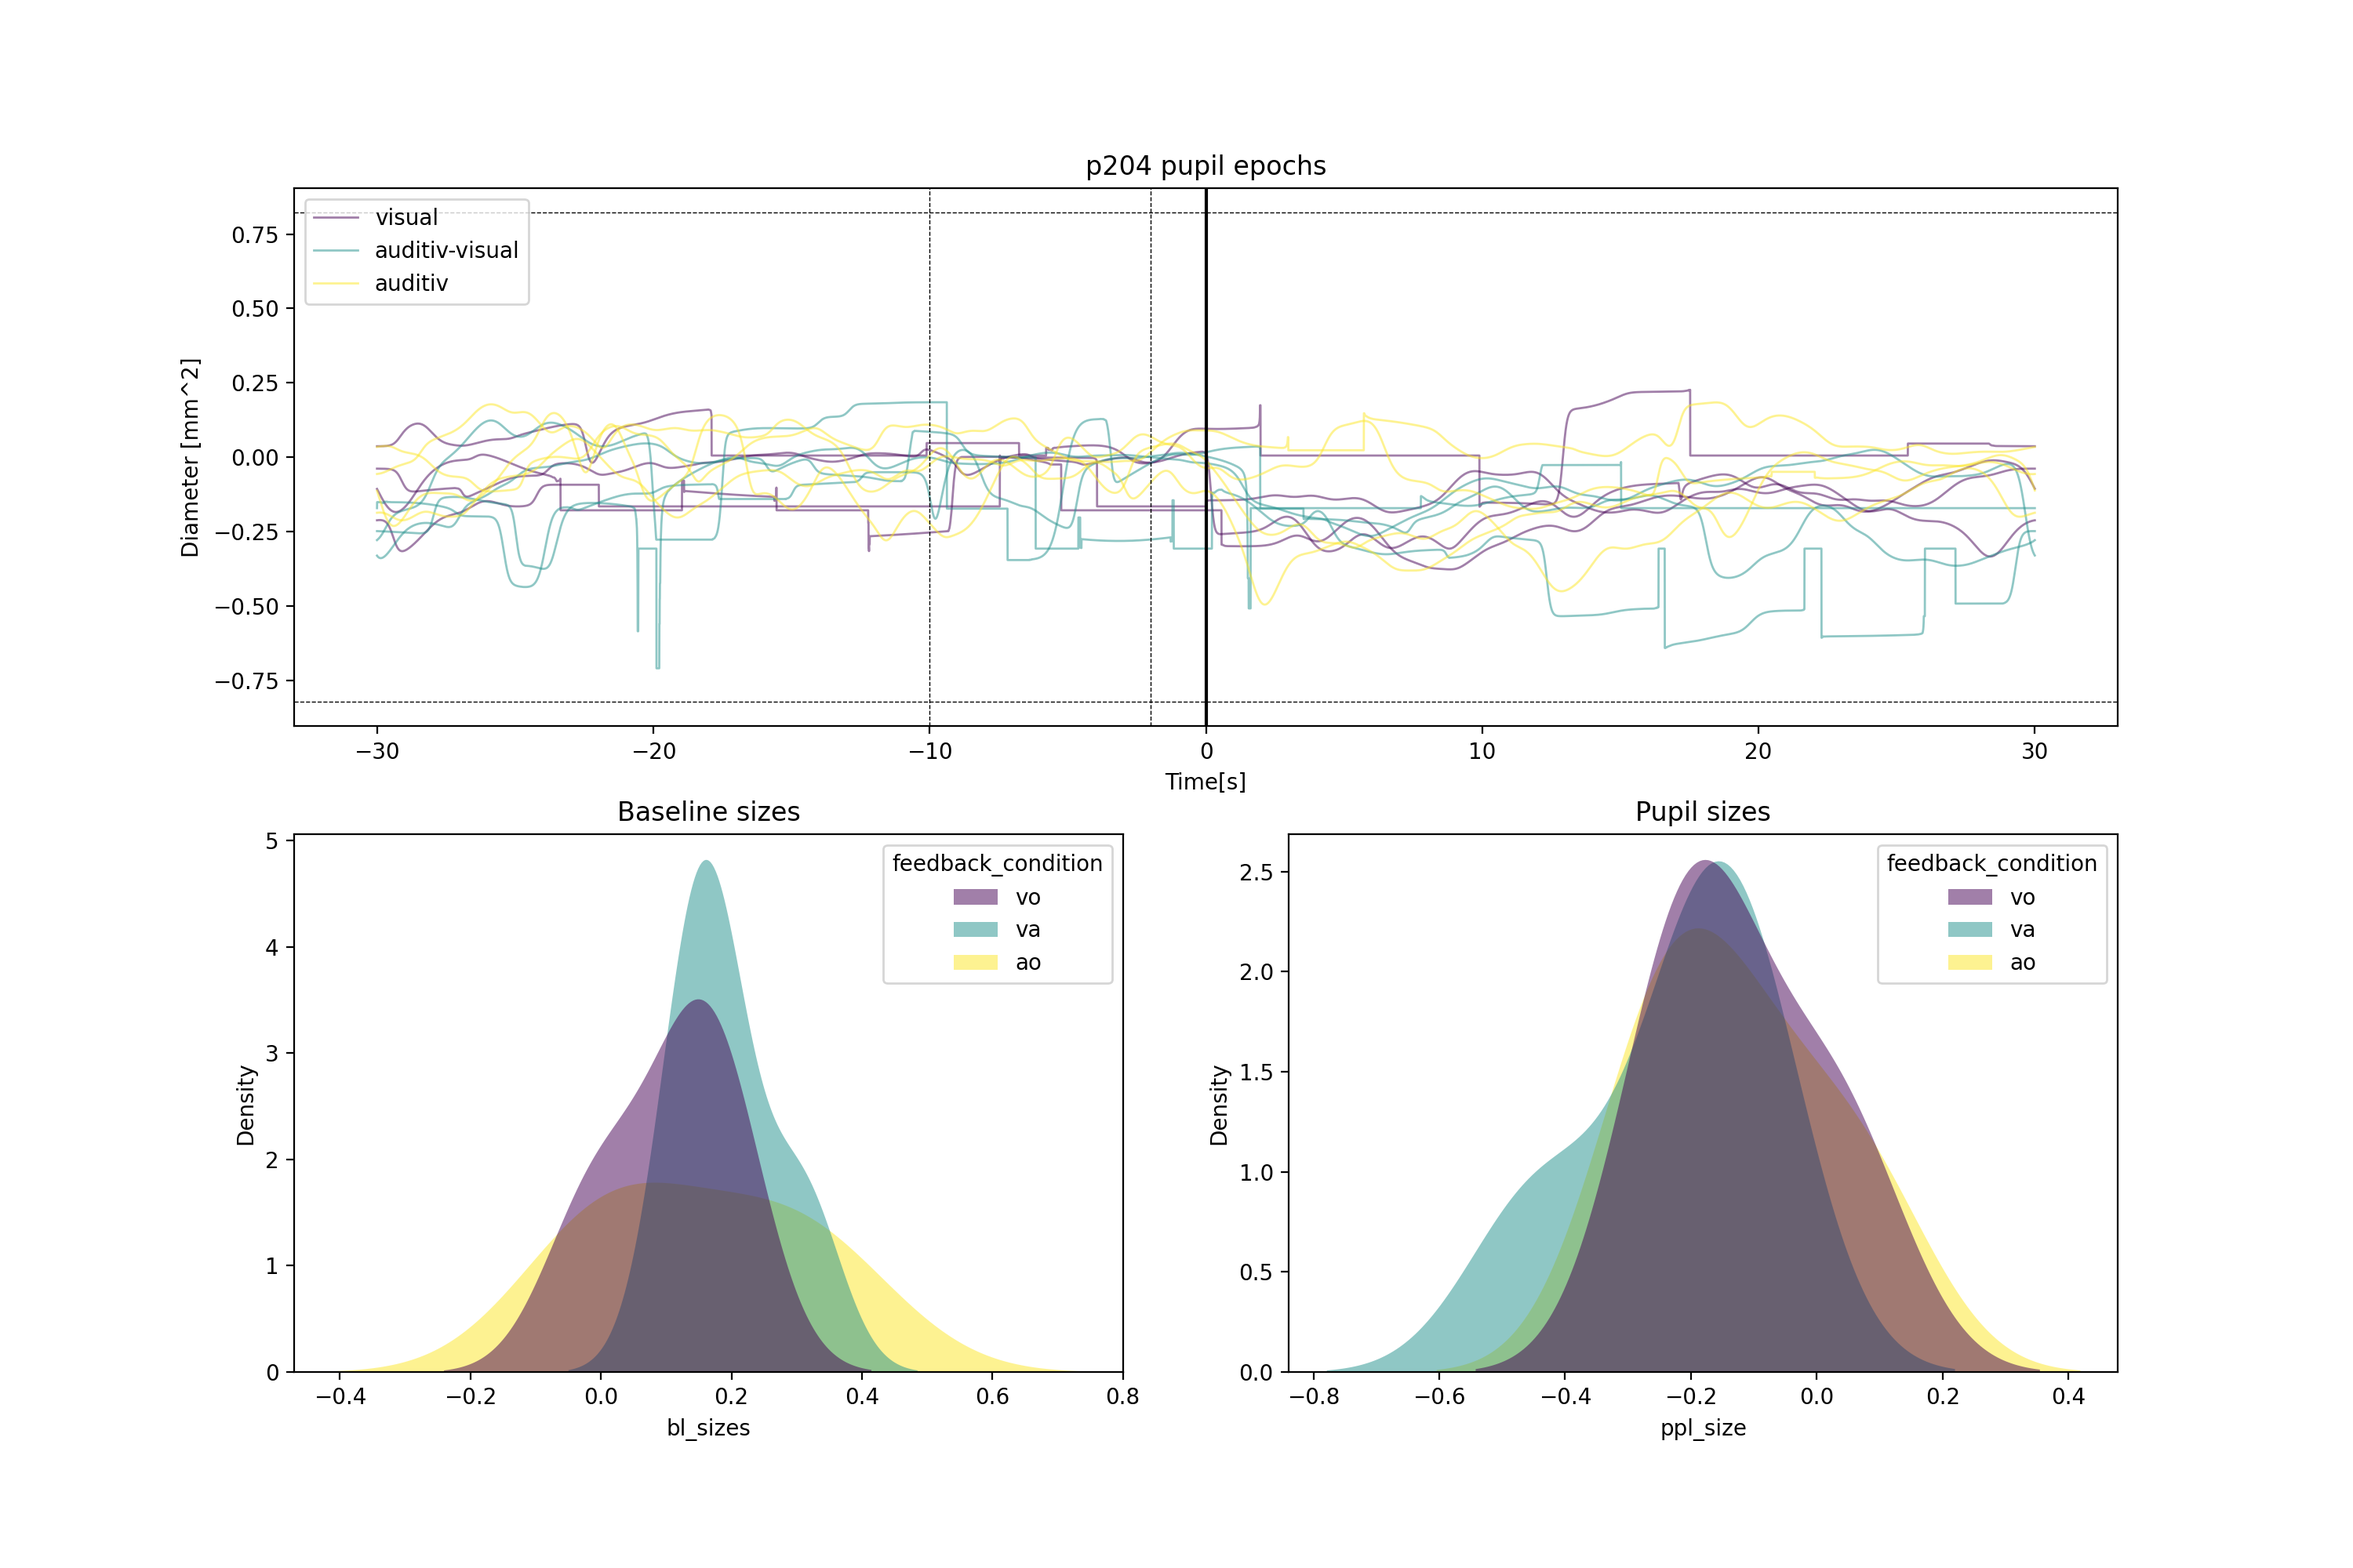
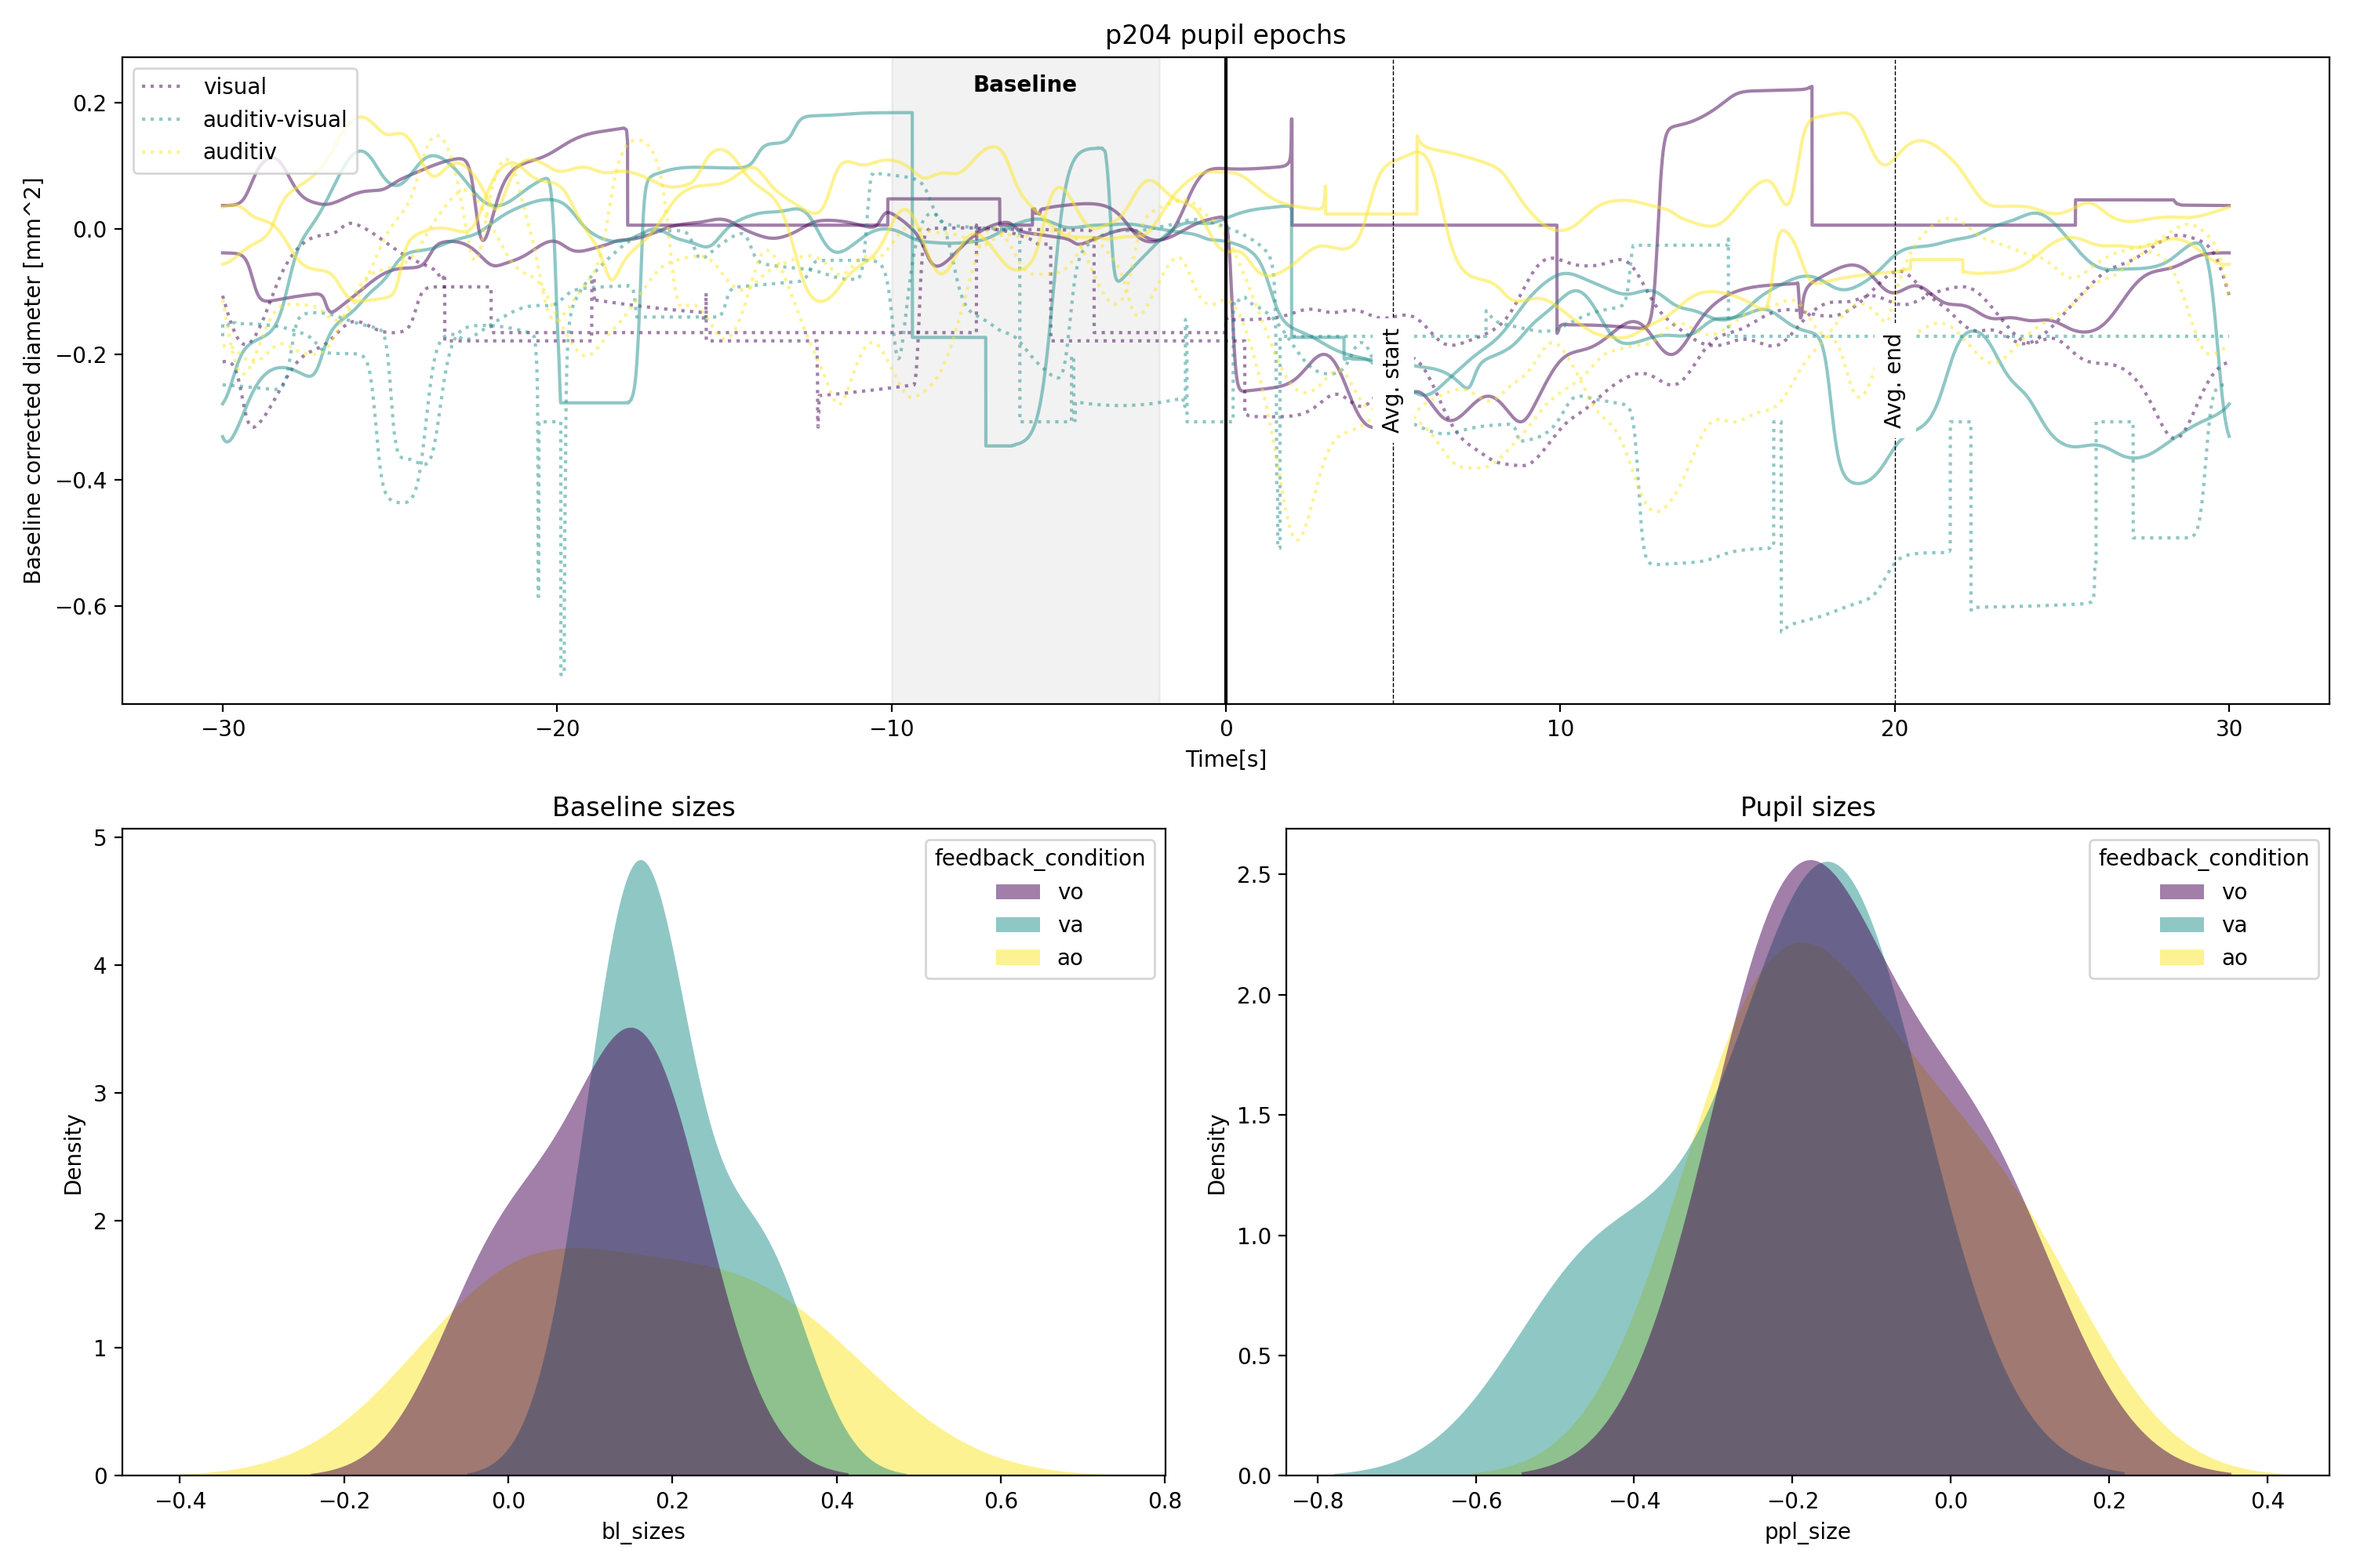
[ENH] plots for single trials pupil data

diff --git a/utilities/utl.py b/utilities/utl.py
@@ -169,5 +169,19 @@ def get_channel_labels_ppl_xdf(ppl):
 
     return nms_ppl
 
+def axlines_with_text(ax, ax_position, str_label, axis='x'):
+
+    if axis not in ['x','y']:
+        raise ValueError('axis specification msut be x or y')
+
+    ymin, ymax = ax.get_ylim()
+    xmin, xmax = ax.get_xlim()
+
+    if axis == 'x':
+        ax.axvline(ax_position, c='k',ls = '--', lw = .5)
+        ax.text(x=ax_position, y=(ymax + ymin) / 2, s=str_label, ha='center', va='center',rotation='vertical', backgroundcolor='white')
+    elif axis == 'y':
+        ax.axhline(ax_position, c='k',ls = '--', lw = .5)
+        ax.text(x=(xmax + xmin) / 2, y=ax_position, s=str_label, ha='center', va='center',rotation='horizontal', backgroundcolor='white')
 
 
